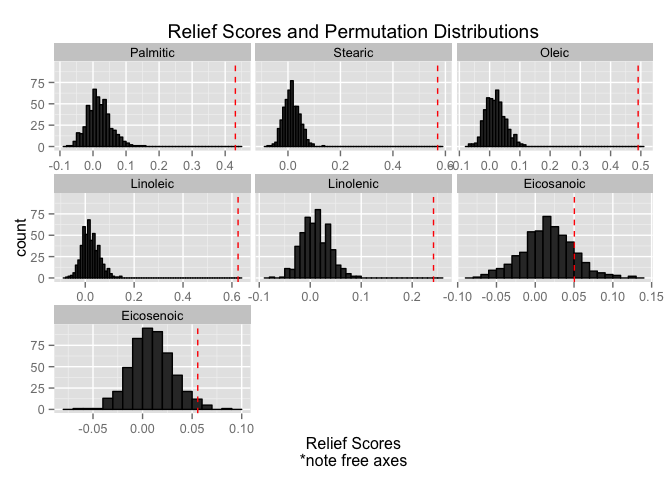
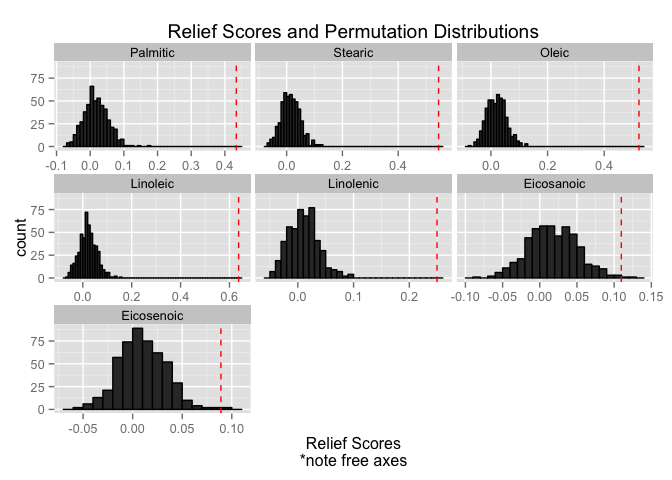
update to ANOVA

diff --git a/measuring-predictor-importance/oil_data_182.md b/measuring-predictor-importance/oil_data_182.md
@@ -129,7 +129,7 @@ anova_res <- function(x, y) {
 }
 anova_data <- apply(fattyAcids, MARGIN = 2, FUN = anova_res, y = oilType)
 anova_data <- data.frame(t(anova_data))
-anova_data[order(anova_data$F_value, decreasing = TRUE), ]
+anova_data[order(anova_data$p_value, decreasing = FALSE), ]
 ```
 
 ```
@@ -152,7 +152,8 @@ anova_data[order(anova_data$F_value, decreasing = TRUE), ]
 When there are three or more classes, filterVarImp will compute ROC curves
 for each class versus the others and then returns the largest area under the
 curve. In this case, with AUCs of 1, there are clearly some predictors that
-can perfectly separate one class from the rest.
+can perfectly separate one class from the rest (but we could have guessed this
+looking at the boxplots!).
 
 ```r
 # AUC results
@@ -171,10 +172,10 @@ relief_values[order(relief_values, decreasing = TRUE)]
 ```
 
 ```
-##   Linoleic    Stearic      Oleic   Palmitic  Linolenic Eicosenoic 
-## 0.62515445 0.57036354 0.49103073 0.43080711 0.24181771 0.05565571 
-## Eicosanoic 
-## 0.05037286
+##   Linoleic    Stearic      Oleic   Palmitic  Linolenic Eicosanoic 
+## 0.63730668 0.54491315 0.52274769 0.43404607 0.24963549 0.10965929 
+## Eicosenoic 
+## 0.08903402
 ```
 
 A permutation test adds to the ReliefF algorithm by allowing us to observe how the ReliefF score compares to a distribution of scores calculated on permutated data
@@ -206,9 +207,9 @@ relief_perm$standardized[order(relief_perm$standardized)]
 ```
 
 ```
-## Eicosanoic Eicosenoic  Linolenic   Palmitic    Stearic      Oleic 
-##   2.959585   5.432462  10.118656  13.029114  17.257939  17.347153 
+## Eicosanoic Eicosenoic  Linolenic   Palmitic      Oleic    Stearic 
+##   2.989642   5.748575   9.965823  12.783484  15.531254  16.228189 
 ##   Linoleic 
-##  17.864658
+##  18.022441
 ```
 
